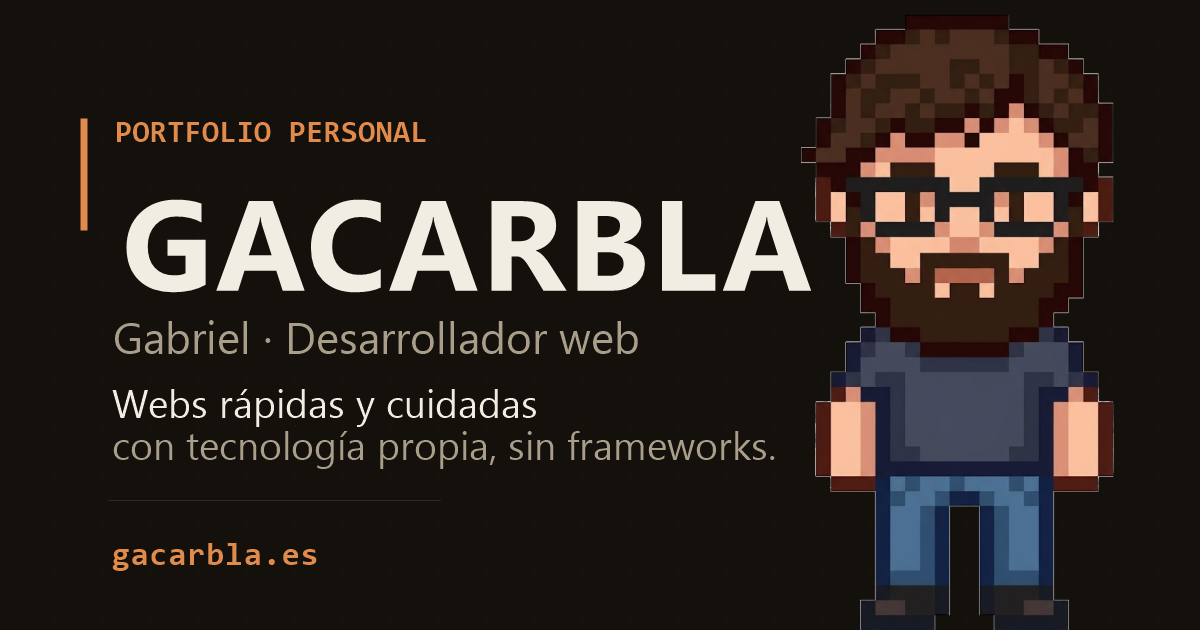
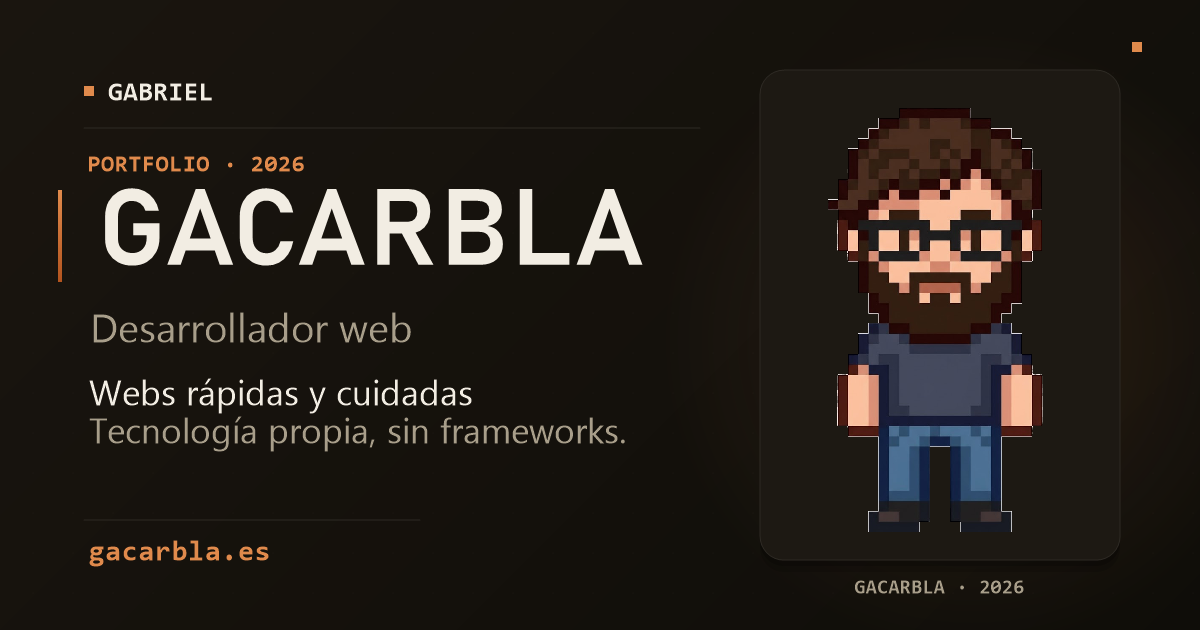
Rediseña la tarjeta social con jerarquia editorial
Sustituye el cartel plano por una tarjeta 1200x630 con fondo degradado, retrato enmarcado, tipografia Bahnschrift/Consolas y una jerarquia clara: GABRIEL, GACARBLA, desarrollador web, propuesta y URL. Mantiene 161 KB y actualiza la version de cache de la imagen a v=2.

diff --git a/index.html b/index.html
@@ -14,8 +14,8 @@
 <meta property="og:title" content="GACARBLA — Portfolio de Gabriel">
 <meta property="og:description" content="Desarrollador web. Webs rápidas y cuidadas con tecnología propia, sin frameworks.">
 <meta property="og:url" content="https://gacarbla.es/">
-<meta property="og:image" content="https://gacarbla.es/assets/og.png?v=1">
-<meta property="og:image:secure_url" content="https://gacarbla.es/assets/og.png?v=1">
+<meta property="og:image" content="https://gacarbla.es/assets/og.png?v=2">
+<meta property="og:image:secure_url" content="https://gacarbla.es/assets/og.png?v=2">
 <meta property="og:image:type" content="image/png">
 <meta property="og:image:width" content="1200">
 <meta property="og:image:height" content="630">
@@ -32,7 +32,7 @@
 <meta name="twitter:card" content="summary_large_image">
 <meta name="twitter:title" content="GACARBLA — Portfolio de Gabriel">
 <meta name="twitter:description" content="Desarrollador web. Webs rápidas y cuidadas con tecnología propia, sin frameworks.">
-<meta name="twitter:image" content="https://gacarbla.es/assets/og.png?v=1">
+<meta name="twitter:image" content="https://gacarbla.es/assets/og.png?v=2">
 <meta name="twitter:image:alt" content="GACARBLA, portfolio de Gabriel, desarrollador web">
 
 <!-- Color de la interfaz del navegador / Browser UI color -->

diff --git a/docs/social-preview.md b/docs/social-preview.md
@@ -4,10 +4,10 @@
 
 - Etiquetas **Open Graph** y **Twitter Card** en `index.html`: título, descripción, URL
   canónica, imagen absoluta, dimensiones, alt, locale y locales alternativos.
-- Tarjeta **1200×630** en `assets/og.png` (203 KB, por debajo del límite habitual de
+- Tarjeta **1200×630** en `assets/og.png` (161 KB, por debajo del límite habitual de
   WhatsApp).
 - Generador reproducible: `scripts/og-image.ps1` (PowerShell + System.Drawing).
-  Usa el retrato `assets/gacarbla.png` y la paleta de la web.
+  Usa el retrato enmarcado, la paleta y la tipografía de la web.
 - `404.html` es una copia de `index.html`, así que también lleva las etiquetas.
 
 ## Cloudflare
